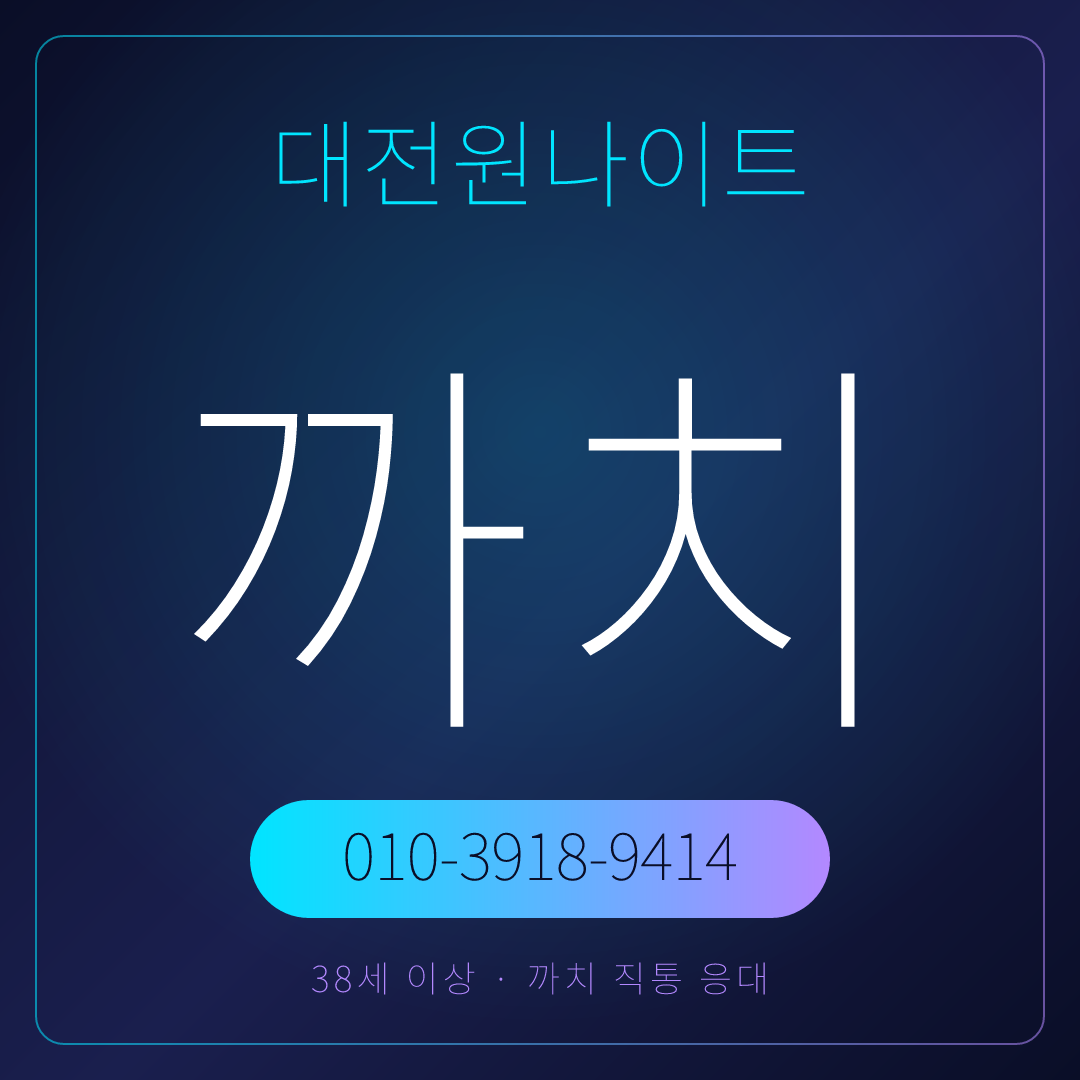
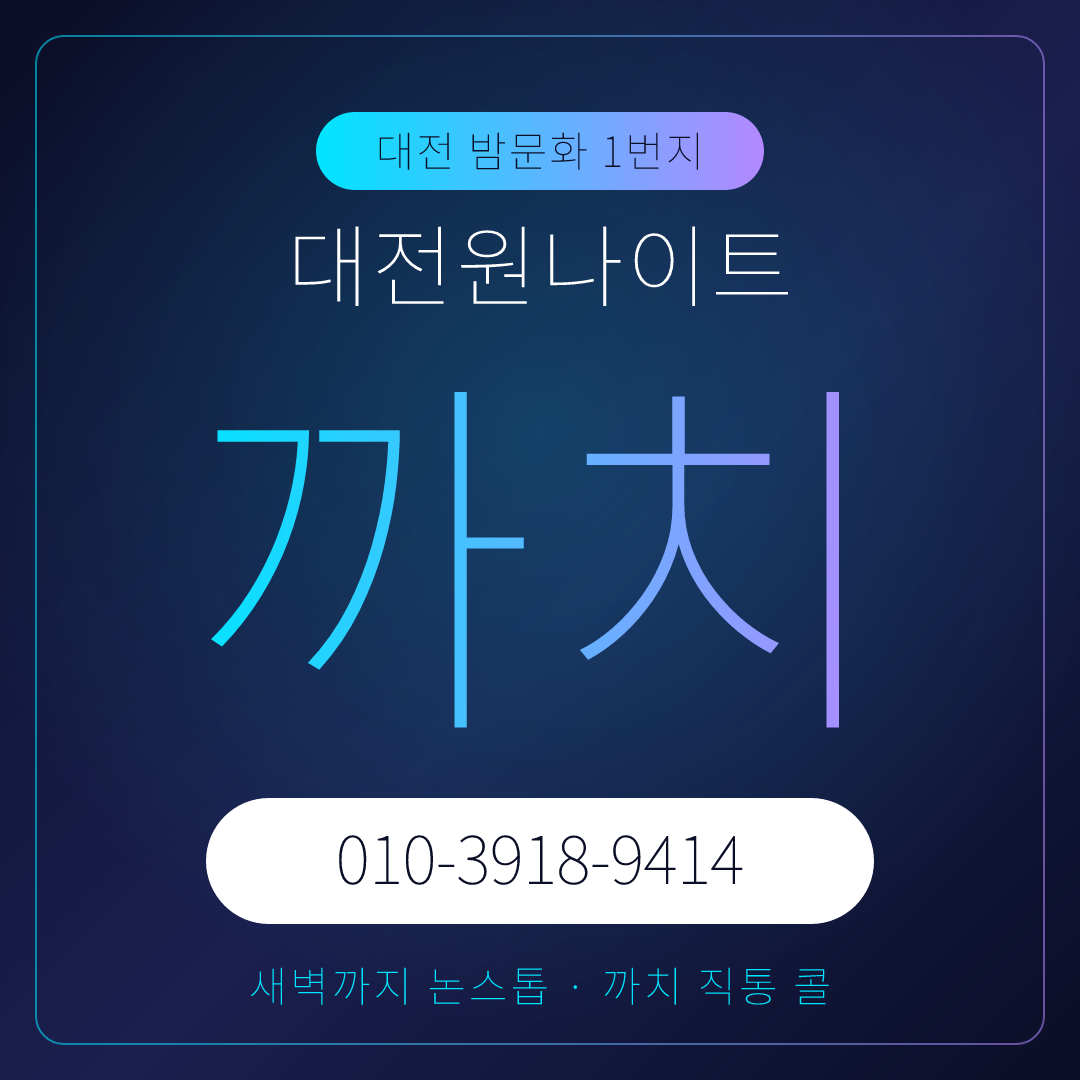
og: 블로그 대표이미지 문구 강화 — 후킹 배지·네온 까치·임팩트 문구

diff --git a/scripts/generate-images.js b/scripts/generate-images.js
@@ -145,12 +145,13 @@ ${defs}
 <rect width="1080" height="1080" fill="url(#bg)"/>
 <rect width="1080" height="1080" fill="url(#glow)"/>
 <rect x="36" y="36" width="1008" height="1008" rx="28" fill="none" stroke="url(#ac)" stroke-width="2" opacity="0.55"/>
-<text x="540" y="200" font-family="Noto Sans KR" font-size="96" font-weight="900" fill="#00E5FF" text-anchor="middle" letter-spacing="2">대전원나이트</text>
-<line x1="330" y1="250" x2="750" y2="250" stroke="url(#ac)" stroke-width="3"/>
-<text x="540" y="700" font-family="Noto Sans KR" font-size="400" font-weight="900" fill="#FFFFFF" text-anchor="middle" letter-spacing="12">까치</text>
-<rect x="250" y="800" width="580" height="118" rx="59" fill="url(#ac)"/>
-<text x="540" y="880" font-family="Noto Sans KR" font-size="64" font-weight="900" fill="#0A0E27" text-anchor="middle" letter-spacing="-1">010-3918-9414</text>
-<text x="540" y="992" font-family="Noto Sans KR" font-size="36" font-weight="500" fill="#B388FF" text-anchor="middle" letter-spacing="4">38세 이상 · 까치 직통 응대</text>
+<rect x="316" y="112" width="448" height="78" rx="39" fill="url(#ac)"/>
+<text x="540" y="167" font-family="Noto Sans KR" font-size="42" font-weight="900" fill="#0A0E27" text-anchor="middle" letter-spacing="2">대전 밤문화 1번지</text>
+<text x="540" y="300" font-family="Noto Sans KR" font-size="90" font-weight="900" fill="#FFFFFF" text-anchor="middle" letter-spacing="2">대전원나이트</text>
+<text x="540" y="702" font-family="Noto Sans KR" font-size="380" font-weight="900" fill="url(#ac)" text-anchor="middle" letter-spacing="12">까치</text>
+<rect x="206" y="798" width="668" height="126" rx="63" fill="#FFFFFF"/>
+<text x="540" y="884" font-family="Noto Sans KR" font-size="66" font-weight="900" fill="#0A0E27" text-anchor="middle" letter-spacing="-1">010-3918-9414</text>
+<text x="540" y="1002" font-family="Noto Sans KR" font-size="42" font-weight="700" fill="#00E5FF" text-anchor="middle" letter-spacing="3">새벽까지 논스톱 · 까치 직통 콜</text>
 </svg>`;
 
 render(blog, 'public/og/blog.png', 1080, 1080);